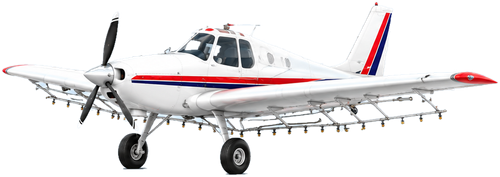
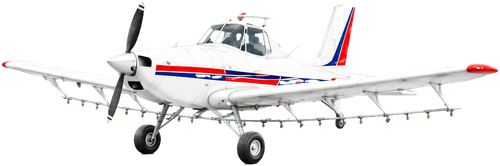
feat: imágenes nuevas de Agrícola y Proyecto

Changed region(s): [[0.0, 0.0, 1.0, 0.994], [0.75, 0.0, 0.78, 0.0301]]

diff --git a/components/ui/AircraftTypesSection.tsx b/components/ui/AircraftTypesSection.tsx
@@ -35,7 +35,7 @@ const TYPES = [
     name: "Agrícola",
     image: "agricola",
     width: 500,
-    height: 177,
+    height: 166,
     categories: ["A"],
   },
   {
@@ -49,7 +49,7 @@ const TYPES = [
     name: "Proyecto",
     image: "proyecto",
     width: 500,
-    height: 182,
+    height: 250,
     categories: ["PR"],
   },
   {
